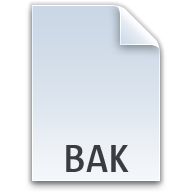
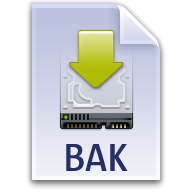
2007-10-03 Erwann Chenede - <erwann.chenede@sun.com>
* icons/[1-9].* : added new icons (backup, core, trash)
    and fixed 6590093
  * utils/* : added doc about the helper scripts
  * icons/index.theme.in : added new categories for 6590093
  * icons/my-mapping.xml : added aliases for the new icons
  * configure.in : bumped version and added new makefiles
  * gtk-engine/images/handlebar-* : resized to 10 pix witdh for 6479354
  * gtk-engine/nimbus_style.c : fixes for 6479354, 6479362
    new fix for the OOo spinner issue. Use the draw_shadow instead
    of draw flat box as we can determine the widget type in that 
    function.

git-svn-id: file:///export/mirror/svn/svn.opensolaris.org/svn/jds/nimbus/trunk@37 bc810da4-2ad6-6859-fe92-98cca204e61b

diff --git a/gtk-engine/nimbus_style.c b/gtk-engine/nimbus_style.c
@@ -329,7 +329,6 @@ draw_arrow (GtkStyle      *style,
 	      offset_height -=2;
 	    }
 	}
-
       if (tmp_pb && !firefox_hack && 
 	  check_sane_pixbuf_value ((arrow_type == GTK_ARROW_DOWN || arrow_type == GTK_ARROW_UP) ? 1 : 0,
 				   (arrow_type == GTK_ARROW_LEFT || arrow_type == GTK_ARROW_RIGHT) ? 1 : 0,
@@ -562,7 +561,12 @@ draw_shadow (GtkStyle        *style,
 	  get_ancestor_of_type (widget, "GtkSpinButton") ||
 	  get_ancestor_of_type (widget, "GnomeEntry"))
 	general_case = FALSE; /*combo case */
-      
+
+      /* Special case for Star/OpenOffice Spinbutton redraw problem */
+      if (get_ancestor_of_type (widget, "GtkSpinButton") && get_ancestor_of_type (widget, "GtkFixed"))
+	gdk_draw_rectangle (window, style->white_gc, TRUE,
+			    x+2, y+2, width-4, height-4);
+
       /* work around for a bug in gtkentry were the state isn't set */
       if (widget)
 	state_type = GTK_WIDGET_STATE(widget);
@@ -931,8 +935,8 @@ draw_handle (GtkStyle      *style,
   if ((DETAIL ("handlebox") || DETAIL ("dockitem")) && (get_ancestor_of_type (widget, "PanelToplevel") == NULL))
     {
       height--;
-      if (get_ancestor_of_type (widget, "GtkFixed")) /* heuristic for soffice */
-	height--;
+      if (get_ancestor_of_type (widget, "GtkFixed") && get_ancestor_of_type (widget,"GtkHandleBox")) /* heuristic for soffice */
+	  height--;
 
       if (orientation == GTK_ORIENTATION_VERTICAL)
 	{
@@ -1073,10 +1077,6 @@ draw_flat_box (GtkStyle      *style,
 	       gint           width,
 	       gint           height)
 {
-if (DETAIL ("entry_bg"))
-    gdk_draw_rectangle (window, style->white_gc, TRUE,
-			x, y, width, height);
-
  parent_class->draw_flat_box (style, window, state_type, shadow_type, area,
 			       widget, detail, x, y, width, height);
 
@@ -1680,7 +1680,19 @@ draw_box (GtkStyle      *style,
   else if (DETAIL ("bar"))
     draw_progress (style, window, state_type, shadow_type, area, widget, detail, x, y, width, height);
   else if (DETAIL ("toolbar") || DETAIL ("dockitem_bin") || DETAIL ("handlebox_bin"))
-      gdk_draw_line (window, nimbus_realize_color (style, rc->menubar_border, area), x,y+height-1,x+width-1,y+height-1);
+    {
+      GtkOrientation orientation = GTK_ORIENTATION_HORIZONTAL;
+      if (GTK_IS_TOOLBAR (widget))
+	  orientation = gtk_toolbar_get_orientation (widget);
+
+      if (orientation == GTK_ORIENTATION_HORIZONTAL)
+	  gdk_draw_line (window, nimbus_realize_color (style, rc->menubar_border, area), x,y+height-1,x+width-1,y+height-1); 
+      else
+	  {
+	    gdk_draw_line (window, nimbus_realize_color (style, rc->menubar_border, area), x,y,x,y+height-1); 
+	    gdk_draw_line (window, nimbus_realize_color (style, rc->menubar_border, area), x+width-1,y,x+width-1,y+height-1); 
+	  }
+    }
   else if (DETAIL ("menu"))
     {
       GdkGC *start, *mid_start, *mid_end, *end;
@@ -2002,7 +2014,7 @@ draw_hline (GtkStyle     *style,
   NimbusData *rc = NIMBUS_RC_STYLE (style->rc_style)->data;
 
   gdk_draw_line (window, nimbus_realize_color (style, rc->hline, area), x1,y,x2,y);
-  /* parent_class->draw_hline (style, window, state_type, area, widget, detail, x1, x2, y);   */
+  
   verbose ("draw\t hline \t-%s-\n", detail ? detail : "no detail");
 }
 
@@ -2019,17 +2031,10 @@ draw_vline (GtkStyle     *style,
 	    gint          y2,
 	    gint          x)
 {
-  int i;
   NimbusData *rc = NIMBUS_RC_STYLE (style->rc_style)->data;
   
-  if (!get_ancestor_of_type (widget, "GtkComboBox"))
-    {
-      GdkGC *color = nimbus_realize_color (style, rc->vline, area);
-      for (i=0; i <= (y2 - y1); i += 3)
-	  gdk_draw_line (window, color, x, y1+i, x, y1+i);
-	  
-      /* parent_class->draw_vline (style, window, state_type, area, widget, detail, y1, y2, x); */
-    }
+  gdk_draw_line (window, nimbus_realize_color (style, rc->hline, area), x,y1,x,y2);
+
   verbose ("draw\t vline \t-%s-\n", detail ? detail : "no detail");
 }
 
